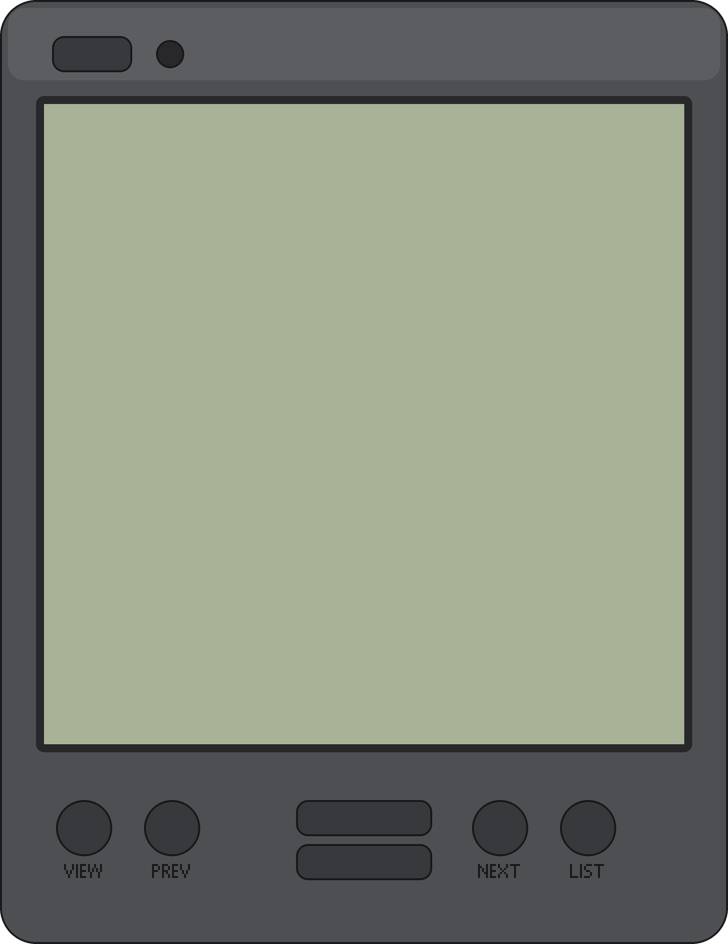
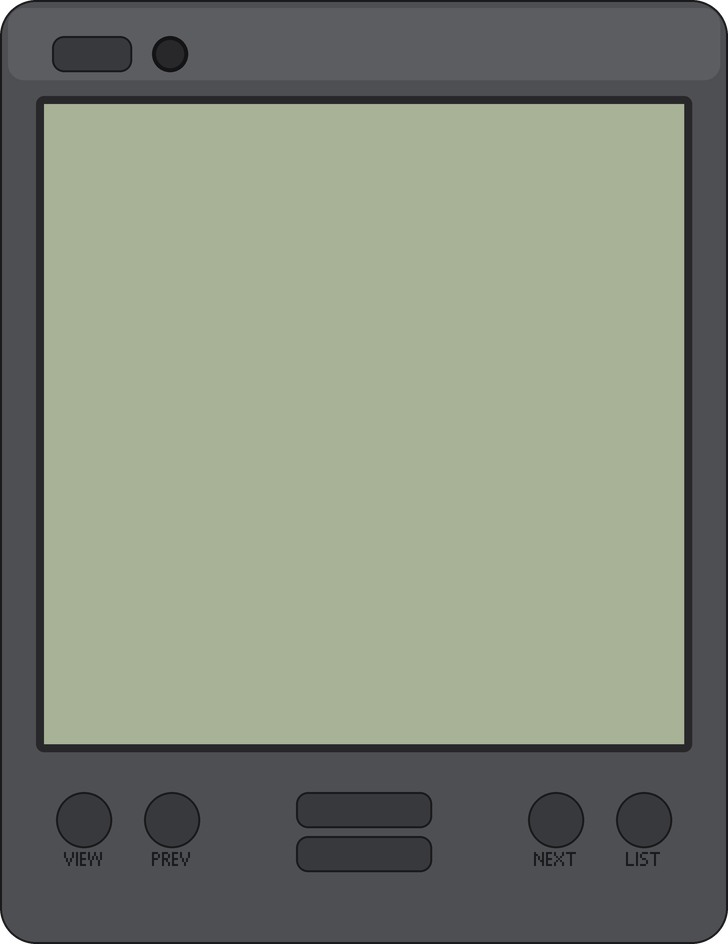
Keypad mirrored about the centre, the light sunk into a well

diff --git a/tools/build_organiser_art.py b/tools/build_organiser_art.py
@@ -35,12 +35,15 @@ SS = 4                      # supersample, so curves are smooth at every scale
 # up by a whole number, never stretched.
 W, H = 182, 236             # the case, in native pixels
 GLASS = (11, 26, 160, 160)  # x, y, w, h - the original's own screen
-BTN = 14                    # round button diameter
-BTNS = {"MODE": (14, 200), "PREV": (36, 200), "NEXT": (118, 200), "INDEX": (140, 200)}
+BTN0 = 14                   # round button diameter
+BTN = BTN0
+# Mirrored about the centre line: the right-hand pair sat 28 px from the edge
+# while the left pair sat 14 (owner, 2026-09-12: "buttons are not alligned").
+BTNS = {"MODE": (14, 198), "PREV": (36, 198), "NEXT": (W - 36 - BTN0, 198), "INDEX": (W - 14 - BTN0, 198)}
 # Palm's own buttons carried a label under the key; the guidelines call for the
 # frequent commands to be one press, named, not hidden in a menu.
 LABELS = {"MODE": "VIEW", "PREV": "PREV", "NEXT": "NEXT", "INDEX": "LIST"}
-ROCKER = (74, 200, 34, 9)   # x, y, w, h of the upper half; lower half sits 11 below
+ROCKER = ((W - 34) // 2, 198, 34, 9)   # x, y, w, h of the upper half; lower half sits 11 below
 ROCKER_GAP = 11
 POWER = (13, 9, 20, 9)
 LED = (39, 10, 7)            # x, y, diameter
@@ -71,8 +74,10 @@ def draw_case(scale):
     # Power key and the light beside it.
     px, py, pw, ph = [v * s for v in POWER]
     d.rounded_rectangle([px, py, px + pw, py + ph], radius=3 * s, fill=DEEP, outline=EDGE, width=max(1, s // 2))
+    # The light sits in a dark well, or it reads as a dot floating on the plastic.
     lx, ly, ld = [v * s for v in LED]
-    d.ellipse([lx, ly, lx + ld, ly + ld], fill=WELL, outline=EDGE, width=max(1, s // 2))
+    d.ellipse([lx - s, ly - s, lx + ld + s, ly + ld + s], fill=(20, 20, 22, 255))
+    d.ellipse([lx, ly, lx + ld, ly + ld], fill=WELL)
     # Four round buttons.
     for _, (bx, by) in BTNS.items():
         bx, by = bx * s, by * s
@@ -82,7 +87,7 @@ def draw_case(scale):
     for name, (bx, by) in BTNS.items():
         label = LABELS[name]
         tw = face.getlength(label)
-        d.text((bx * s + (BTN * s - tw) / 2, (by + BTN + 1) * s), label, font=face, fill=EDGE)
+        d.text((bx * s + (BTN * s - tw) / 2, (by + BTN) * s), label, font=face, fill=EDGE)
     # The rocker, two pills.
     rx, ry, rw, rh = [v * s for v in ROCKER]
     for offset in (0, ROCKER_GAP * s):
